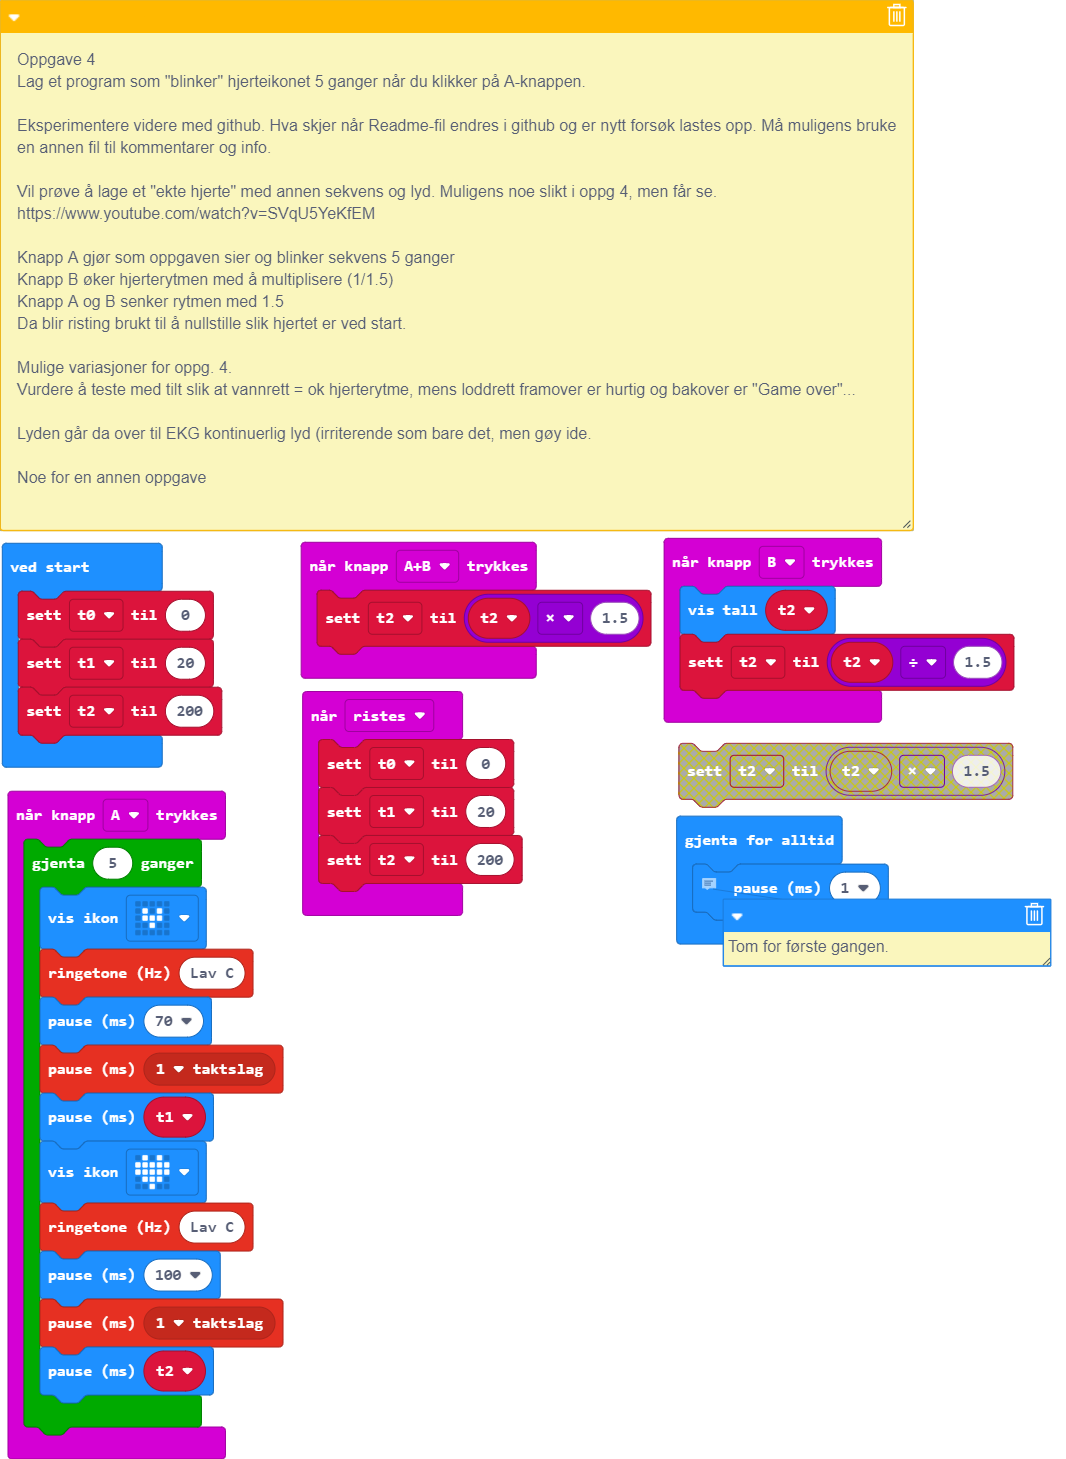
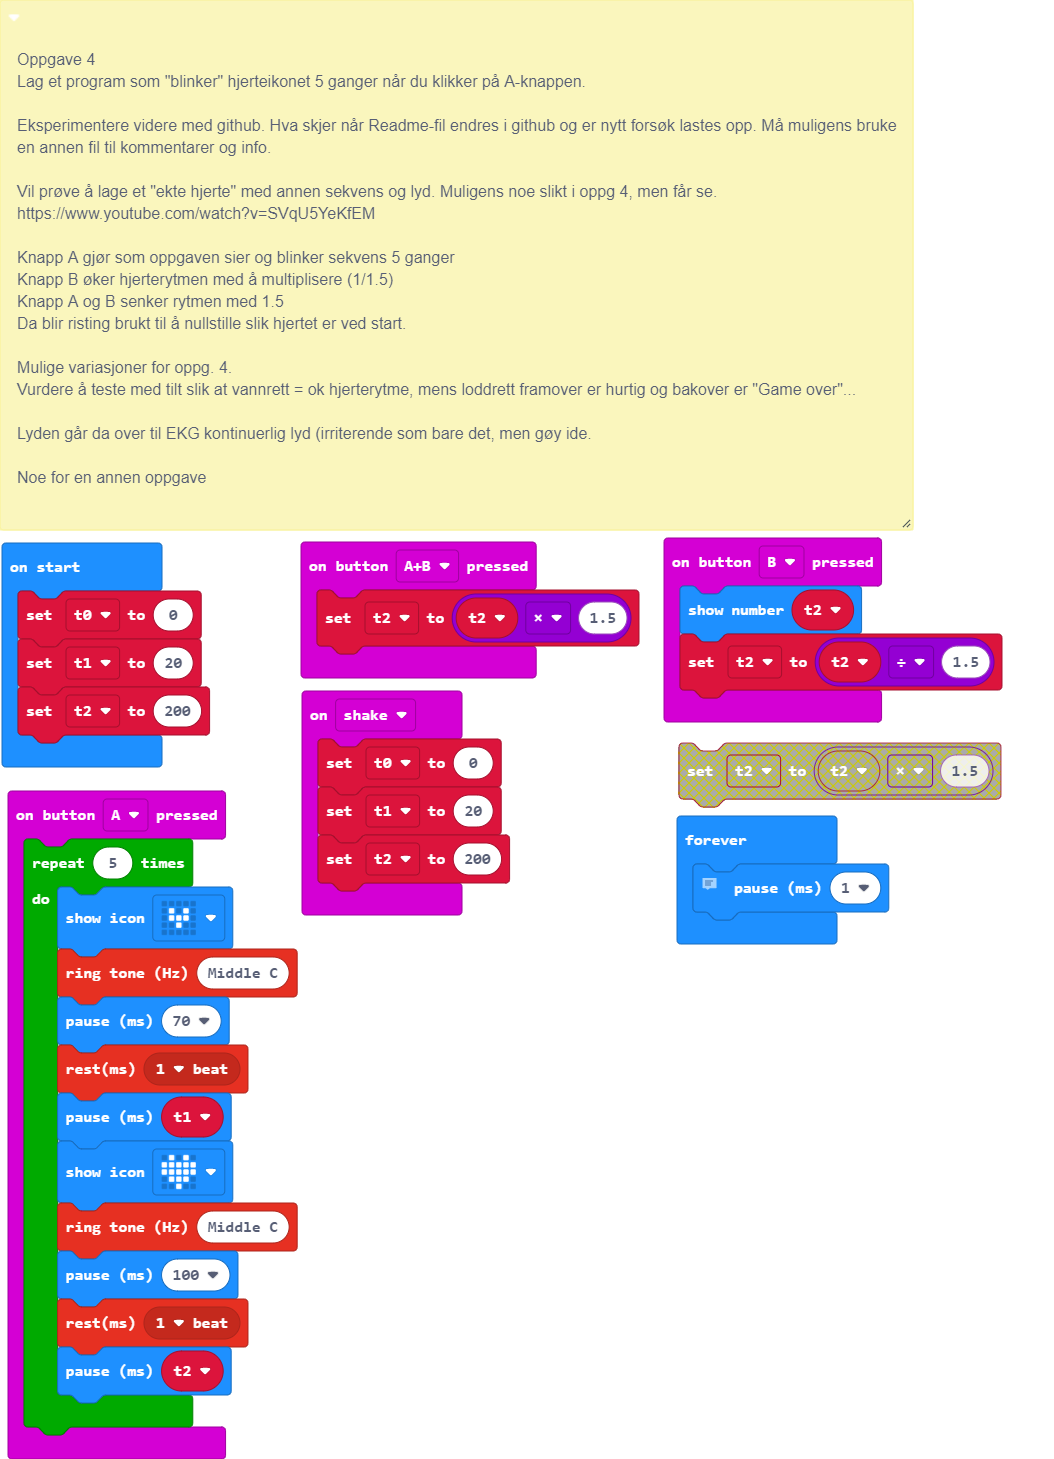
Levert

diff --git a/main.ts b/main.ts
@@ -1,21 +1,16 @@
 input.onButtonPressed(Button.A, function () {
     for (let index = 0; index < 5; index++) {
         basic.showIcon(IconNames.SmallHeart)
-        music.ringTone(131)
+        music.ringTone(262)
         basic.pause(70)
         music.rest(music.beat(BeatFraction.Whole))
         basic.pause(t1)
         basic.showIcon(IconNames.Heart)
-        music.ringTone(131)
+        music.ringTone(262)
         basic.pause(100)
         music.rest(music.beat(BeatFraction.Whole))
         basic.pause(t2)
     }
-})
-input.onGesture(Gesture.Shake, function () {
-    t0 = 0
-    t1 = 20
-    t2 = 200
 })
 /**
  * Oppgave 4
@@ -48,6 +43,11 @@ input.onButtonPressed(Button.AB, function () {
 input.onButtonPressed(Button.B, function () {
     basic.showNumber(t2)
     t2 = t2 / 1.5
+})
+input.onGesture(Gesture.Shake, function () {
+    t0 = 0
+    t1 = 20
+    t2 = 200
 })
 let t2 = 0
 let t1 = 0
